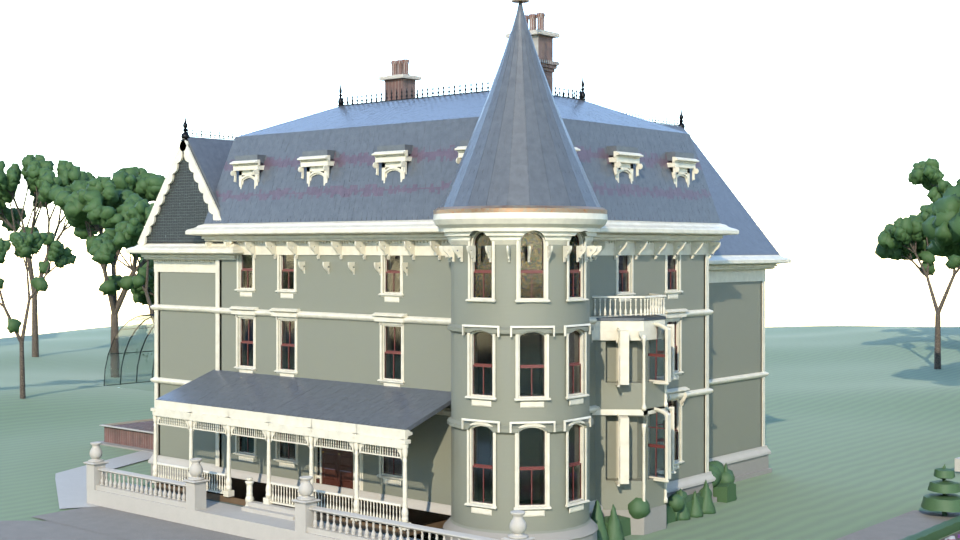
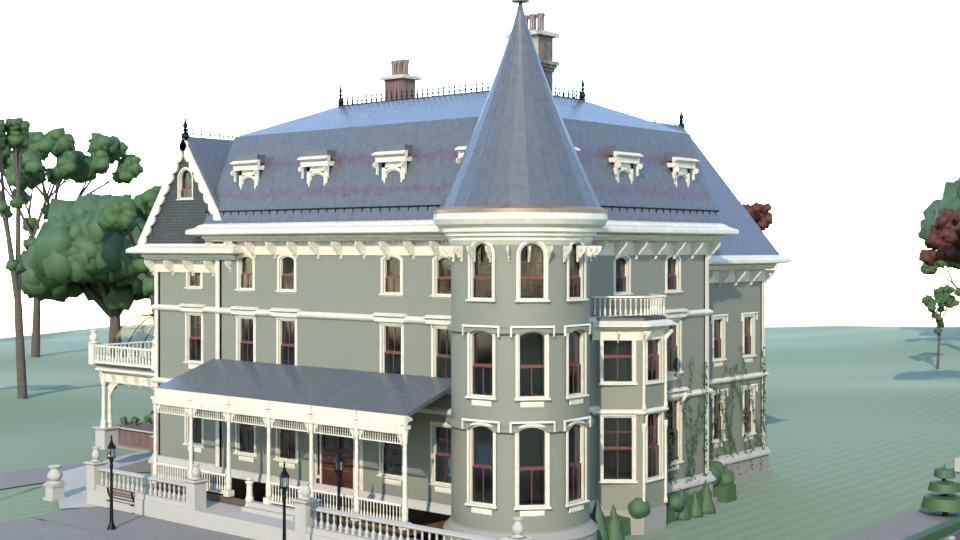
Anchor ivy patches by their centre, not a corner
Which way "along the wall" runs depends on the wall's normal, so a patch
anchored at a corner ran off the end of its own wall on half the elevations -
two of the six were climbing thin air beside the house rather than up it.
ivy() now takes the midpoint of the patch's foot and spreads half either side,
which removes the ambiguity. All nine patches verified to sit within their
walls.

diff --git a/victorian_estate/grounds/layout.py b/victorian_estate/grounds/layout.py
@@ -205,23 +205,23 @@ def creepers(lib: Library, col) -> list[bpy.types.Object]:
     climbers were let go only where nobody important was looking.
     """
     made = []
-    m, w = config.MAIN, config.WING
+    m, w, p = config.MAIN, config.WING, config.PAVILION
     patches = [
-        # (origin, outward normal, width, height, stems, seed)
-        ((w.x0 - 0.06, w.y0 + 0.6, config.Z_BASE), (-1, 0, 0), 7.4, 8.6, 15, 1),
-        ((w.x1 + 0.06, w.y0 + 1.2, config.Z_BASE), (1, 0, 0), 6.2, 7.8, 13, 2),
-        ((w.x0 + 1.0, w.y0 - 0.06, config.Z_BASE), (0, -1, 0), 8.6, 8.0, 16, 3),
-        ((m.x0 - 0.06, m.y0 + 0.5, config.Z_BASE), (-1, 0, 0), 5.0, 7.0, 11, 4),
-        ((config.PAVILION.x0 - 0.06, config.PAVILION.y0 + 0.4, config.Z_BASE),
-         (-1, 0, 0), 4.2, 6.4, 9, 5),
+        # (centre of the patch foot, outward normal, width, height, stems, seed)
+        ((w.x0 - 0.06, w.cy - 0.8, config.Z_BASE), (-1, 0, 0), 7.4, 8.6, 15, 1),
+        ((w.x1 + 0.06, w.cy - 1.4, config.Z_BASE), (1, 0, 0), 6.2, 7.8, 13, 2),
+        ((w.cx + 0.4, w.y0 - 0.06, config.Z_BASE), (0, -1, 0), 8.6, 8.0, 16, 3),
+        ((m.x0 - 0.06, m.y0 + 3.0, config.Z_BASE), (-1, 0, 0), 5.0, 7.0, 11, 4),
+        ((m.cx + 4.5, m.y0 - 0.06, config.Z_BASE), (0, -1, 0), 5.6, 7.2, 12, 5),
+        ((p.x1 + 0.06, p.y0 + 2.0, config.Z_BASE), (1, 0, 0), 3.6, 6.4, 9, 6),
     ]
-    for i, (origin, normal, wd, ht, stems, seed) in enumerate(patches):
-        made.append(ivy_patch(f"ivy.house{i}", origin, normal, wd, ht, lib,
+    for i, (centre, normal, wd, ht, stems, seed) in enumerate(patches):
+        made.append(ivy_patch(f"ivy.house{i}", centre, normal, wd, ht, lib,
                               col, stems, seed))
 
     # And along the outer face of the kitchen garden's north wall.
     for i in range(3):
-        x = 13.0 + i * 8.6
+        x = 16.0 + i * 8.6
         made.append(ivy_patch(f"ivy.kitchen{i}",
                               (x, -22.76, T.height(x, -23.0) - 0.3),
                               (0, 1, 0), 7.6, 2.4, lib, col, 9, 20 + i))

diff --git a/victorian_estate/grounds/planting.py b/victorian_estate/grounds/planting.py
@@ -405,23 +405,28 @@ def _leaf_shape(size: float, lobes: int = 5) -> tuple[list, list]:
     return [(x, 0.0, y) for x, y in pts], faces
 
 
-def ivy(name: str, origin, normal, width: float, height: float,
+def ivy(name: str, centre, normal, width: float, height: float,
         lib: Library, col, up=(0.0, 0.0, 1.0), stems: int = 14,
         density: float = 26.0, leaf: float = 0.085, seed: int = 0,
         coverage: float = 0.75, material=None) -> bpy.types.Object:
     """A patch of climbing ivy on a wall plane.
 
-    ``origin`` is a point at the foot of the patch and ``normal`` is the
-    wall's outward direction; the patch runs ``width`` along the wall and
-    ``height`` up it.  Stems random-walk upward with a bias to stay on the
-    wall, and leaves are single lobed quads scattered along them, tilted out
-    of the plane so the mass catches light instead of reading as a flat decal.
+    ``centre`` is the midpoint of the patch's foot and ``normal`` is the
+    wall's outward direction; the patch spreads ``width`` along the wall,
+    half either side, and climbs ``height``.  Taking a centre rather than a
+    corner is deliberate: which way "along the wall" runs depends on the
+    normal, and a patch anchored at a corner runs off the end of its own wall
+    on half the elevations.
+
+    Stems random-walk upward with a bias to stay on the wall, and leaves are
+    single lobed quads scattered along them, tilted out of the plane so the
+    mass catches light instead of reading as a flat decal.
     """
     rng = random.Random(seed * 131 + 7)
-    o = Vector(origin)
     u = Vector(up).normalized()
     n = Vector(normal).normalized()
     r = u.cross(n).normalized()
+    o = Vector(centre) - r * (width / 2.0)
 
     stem_v: list[tuple] = []
     stem_f: list[tuple] = []
